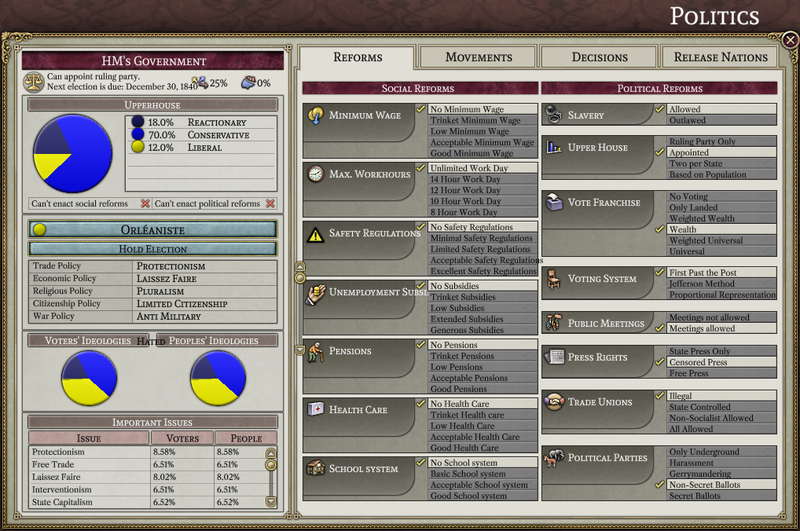
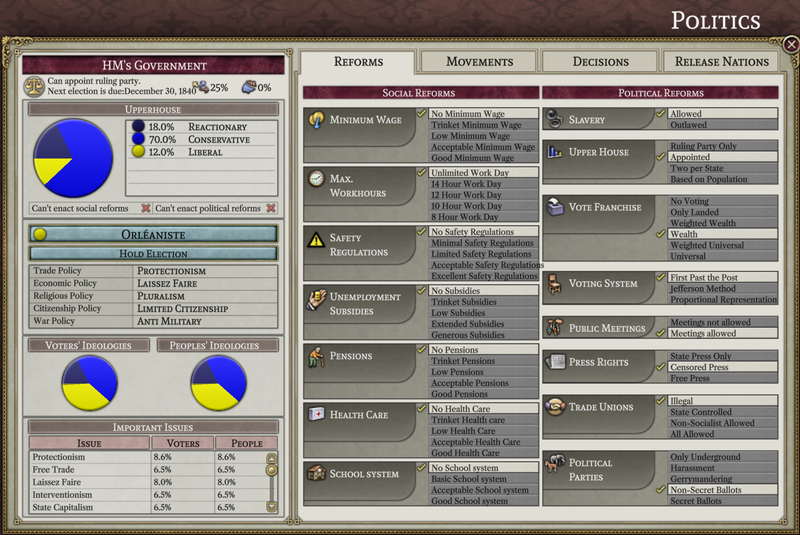
April update

diff --git a/src/gui/gui_common_elements.hpp b/src/gui/gui_common_elements.hpp
@@ -93,7 +93,7 @@ public:
 class state_admin_efficiency_text : public standard_state_instance_text {
 public:
 	std::string get_text(sys::state& state) noexcept override {
-		return text::format_percentage(province::state_admin_efficiency(state, state_id), 3);
+		return text::format_percentage(province::state_admin_efficiency(state, state_id), 1);
 	}
 };
 
@@ -103,7 +103,7 @@ public:
 		auto total_pop = state.world.state_instance_get_demographics(state_id, demographics::total);
 		auto aristocrat_key = demographics::to_key(state, state.culture_definitions.aristocrat);
 		auto aristocrat_amount = state.world.state_instance_get_demographics(state_id, aristocrat_key);
-		return text::format_percentage(aristocrat_amount / total_pop, 3);
+		return text::format_percentage(aristocrat_amount / total_pop, 1);
 	}
 };
 
@@ -317,7 +317,7 @@ public:
 class province_crime_fighting_text : public standard_province_text {
 public:
 	std::string get_text(sys::state& state) noexcept override {
-		return text::format_percentage(province::crime_fighting_efficiency(state, province_id), 3);
+		return text::format_percentage(province::crime_fighting_efficiency(state, province_id), 1);
 	}
 	tooltip_behavior has_tooltip(sys::state& state) noexcept override {
 		return tooltip_behavior::variable_tooltip;
@@ -378,7 +378,7 @@ public:
 class province_rgo_employment_percent_text : public standard_province_text {
 public:
 	std::string get_text(sys::state& state) noexcept override {
-		return text::format_percentage(state.world.province_get_rgo_employment(province_id), 3);
+		return text::format_percentage(state.world.province_get_rgo_employment(province_id), 1);
 	}
 };
 
@@ -460,14 +460,14 @@ public:
 class issue_option_popular_support : public standard_nation_issue_option_text {
 public:
 	std::string get_text(sys::state& state) noexcept override {
-		return text::format_percentage(politics::get_popular_support(state, nation_id, issue_option_id), 3);
+		return text::format_percentage(politics::get_popular_support(state, nation_id, issue_option_id), 1);
 	}
 };
 
 class issue_option_voter_support : public standard_nation_issue_option_text {
 public:
 	std::string get_text(sys::state& state) noexcept override {
-		return text::format_percentage(politics::get_voter_support(state, nation_id, issue_option_id), 3);
+		return text::format_percentage(politics::get_voter_support(state, nation_id, issue_option_id), 1);
 	}
 };
 
@@ -833,7 +833,7 @@ public:
 	std::string get_text(sys::state& state) noexcept override {
 		auto literacy = state.world.nation_get_demographics(nation_id, demographics::literacy);
 		auto total_pop = state.world.nation_get_demographics(nation_id, demographics::total);
-		return text::format_percentage(literacy / total_pop, 3);
+		return text::format_percentage(literacy / total_pop, 1);
 	}
 };
 
@@ -1205,7 +1205,7 @@ public:
 
 
 
-    class nation_ideology_percentage_text : public simple_text_element_base {
+class nation_ideology_percentage_text : public simple_text_element_base {
 protected:
 	dcon::nation_id nation_id{};
 	dcon::ideology_id ideology_id{};
@@ -1214,7 +1214,7 @@ public:
 	void on_update(sys::state& state) noexcept override {
 		if(nation_id && ideology_id) {
 			auto percentage = .01f * state.world.nation_get_upper_house(nation_id, ideology_id);
-			set_text(state, text::format_percentage(percentage, 3));
+			set_text(state, text::format_percentage(percentage, 1));
 		}
 	}
 

diff --git a/src/text/text.cpp b/src/text/text.cpp
@@ -5,6 +5,7 @@
 #include "system_state.hpp"
 #include "parsers.hpp"
 #include "simple_fs.hpp"
+#include <type_traits>
 
 namespace text {
 	text_color char_to_color(char in) {
@@ -630,22 +631,20 @@ namespace text {
 	}
 
 	std::string prettify(int64_t num) {
-		if(num < 1000) {
-			return std::to_string(num);
-		}
-		size_t i = 0;
-		while(num >= 1'000'000) {
-			num /= 1000;
-			i++;
+		char buffer[200] = { 0 };
+		double dval = double(num);
+
+		constexpr static double mag[] = { 0.0, 1'000.0, 1'000'000'000.0, 1'000'000'000'000.0, 1'000'000'000'000'000.0, 1'000'000'000'000'000'000.0, 1'000'000'000'000'000'000'000.0 };
+		constexpr static char const* sufx[] = { "%.0f", "%.2fK", "%.2fM", "%.2fB", "%.2fT", "%.2fP", "%.2fZ" };
+
+		for(size_t i = std::extent_v<decltype(mag)>; i-- > 0; ) {
+			if(std::abs(dval) > mag[i]) {
+				snprintf(buffer, 200, sufx[i], num / mag[i]);
+				return std::string(buffer);
+			}
 		}
 
-		std::string pretty_num = std::to_string(num / 10);
-		pretty_num.insert(pretty_num.size() - 2, ".");
-
-		const std::string unit_palette = "KMBTPZ";
-		pretty_num += unit_palette[std::min(unit_palette.size() - 1, i)];
-		
-		return pretty_num;
+		return std::string("#inf");
 	}
 
 	template<class T>
@@ -845,8 +844,9 @@ namespace text {
 			auto next_wb = txt.find_first_of(" \r\n\t", end_position);
 			auto next_word = txt.find_first_not_of(" \r\n\t", next_wb);
 
-			std::string_view segment = txt.substr(start_position, next_wb - start_position);
-			float extent = state.font_collection.text_extent(state, txt.data() + start_position, uint32_t(next_wb - start_position), dest.fixed_parameters.font_id);
+			auto num_chars = uint32_t(std::min(next_wb, txt.length()) - start_position);
+			std::string_view segment = txt.substr(start_position, num_chars);
+			float extent = state.font_collection.text_extent(state, txt.data() + start_position, num_chars, dest.fixed_parameters.font_id);
 
 			if(first_in_line && int32_t(box.x_position) == box.x_offset && box.x_position + extent >= dest.fixed_parameters.right) {
 				// the current word is too long for the text box, just let it overflow

diff --git a/src/nations/nations.hpp b/src/nations/nations.hpp
@@ -251,7 +251,6 @@ bool has_reform_available(sys::state& state, dcon::nation_id n);
 bool has_decision_available(sys::state& state, dcon::nation_id n);
 int32_t max_national_focuses(sys::state& state, dcon::nation_id n);
 int32_t national_focuses_in_use(sys::state& state, dcon::nation_id n);
-bool is_great_power(dcon::nation_fat_id);
 bool can_expand_colony(sys::state& state, dcon::nation_id n);
 bool is_losing_colonial_race(sys::state& state, dcon::nation_id n);
 bool sphereing_progress_is_possible(sys::state& state, dcon::nation_id n); // can increase opinion or add to sphere

diff --git a/src/nations/nations.cpp b/src/nations/nations.cpp
@@ -509,14 +509,6 @@ void update_colonial_points(sys::state& state) {
 	});
 }
 
-bool is_great_power(dcon::nation_fat_id nation) {
-	bool is_great_power = false;
-	nation.for_each_gp_relationship_as_great_power([&](dcon::gp_relationship_id rel_id) {
-		if(!is_great_power) is_great_power = true;
-	});
-	return is_great_power;
-}
-
 bool can_expand_colony(sys::state& state, dcon::nation_id n) {
 	for(auto cols : state.world.nation_get_colonization_as_colonizer(n)) {
 		auto state_colonization = state.world.state_definition_get_colonization(cols.get_state());

diff --git a/src/map/modes/sphere.hpp b/src/map/modes/sphere.hpp
@@ -72,7 +72,7 @@ std::vector<uint32_t> get_selected_sphere_color(sys::state& state) {
 
 	// Get sphere master if exists
 	auto master = selected_nation.get_in_sphere_of();
-	if(!bool(master) && nations::is_great_power(selected_nation)) {
+	if(!bool(master) && nations::is_great_power(state, selected_nation)) {
 		master = selected_nation;
 	}
 

diff --git a/docs/Devlogs/april/april.md b/docs/Devlogs/april/april.md
@@ -1,17 +1,18 @@
 # Progress as of April 2023
 
-As April begins, we are still here, plugging away.
+Hello Alices! As April begins, we are still here, plugging away.
 
 ## New team members
 
-In March we added four new programmers to the team. In order of appearance, they are Bruno who has added the diplomatic map mode:
--- IMAGE GOES HERE --
+In March we added (Schombert kidnapped) four new programmers to the team. In order of appearance, they are Bruno who has added the diplomatic map mode:
+![Diplomatic map mode](Diplomatic_Map_Mode.png)
 Cap, who has added the infrastructure, civilization level, recruitment, supply, relations, rank, and revolt risk map modes (and maybe some others I am forgetting at this point)
--- IMAGE OR TWO GOES HERE --
+![Civilization level map mode](Civilization_Level_Map_Mode.png)
+![Rank map mode](Rank_Map_Mode.png)
 Nick, who has added some improvements to the console as well as making a start on the population window
--- IMAGE OR TWO GOES HERE --
+![Population window](Population_Window_Start.png)
 and Landau who has populated the contents of the decisions tab
--- IMAGE GOES HERE --
+![Decision tab](Populated_Decision_Tab_Landau.png)
 
 New programmers, artists, or people with other talents to contribute are always welcome to join the team.
 
@@ -19,25 +20,27 @@ New programmers, artists, or people with other talents to contribute are always 
 
 For this month we asked Diana, the project coordinator and overall second in command "what are you interested in adding to Project Alice?"
 
-> To be honest, as of now I have little programming abilities. I wanted to help, but the only things I could do were advertising (the possibilities for which kinda shrunk) and managing people (but people here turned out to be quite good at managing themselves). I might try to fiddle more with the code later though. Once the project is closer to release, I want to bug mod creators to try to convince them to make mods compatible with it, and possibly help with that myself if modding compatibility is as preserved as I hope, as I can actually make mods for PDX games--I just avoid doing that due to lack of willpower. Apart from that, the project is kinda important to me; it's something I wished would happen for a long long time, especially because Victoria 2 is too slow for me.
+> tbh, as of now I have little programming abilities. I wanted to help, but the only things I could do were advertising (the possibilities for which kinda shrunk) and managing people (but people here turned out to be quite good at managing themselves). I might try to fiddle more with the code later though. Once the project is closer to release, I want to bug mod creators to try to convince them to make mods compatible with it, and possibly help with that myself if modding compatibility is as preserved as I hope, as I can actually make mods for PDX games--I just avoid doing that due to lack of willpower. Apart from that, the project is kinda important to me; it's something I wished would happen for a long long time, especially because Victoria 2 is too slow for me.
 
 ## UI progress
 
 The slow process of implementing the user interface is still underway. This month we made significant progress on the province window, which now displays information such as national scores, RGO employment, and alliances, among other things. The politics windows has also seen significant improvements. Most of the information in the left-hand column is now filled in, along with the contents of the issues, reforms (for uncivilized nations), and decisions tabs. A first step towards making the population window work (mentioned above) has also been made.
 
--- IMAGES OF PROVINCE WINDOW, FOCUS WINDOW, TOP BAR, POLITICS WINDOW WITH ISSUES --
+![Province windows](Province_and_Focus_Windows.png)
+![Top bar](Top_Bar.png)
+![Politics window](Political_Reforms_Window.png)
 
 ## Map progress
 
 At this point 15 of the 22 map modes have been added. Additionally, the borders between provinces have gotten a facelift. Now borders between nations are thicker than those between states, which are in turn thicker than those between provinces. And as you zoom out, the less important borders will disappear, leaving you with only the national borders when the map is most zoomed out.
 
--- IMAGE OR MAP MODE NOT ALREADY SHOWN, AND THE SAME AREA OF THE MAP AT DIFFERENT ZOOM LEVELS --
+![Zoom levels](Zoom_Levels.png)
 
 ## Classic fonts
 
 Last month we mentioned that MasterChef was working on bringing the classic fonts back as an option. This month we are happy to announce that the work has been completed, and for the ultra purists we have added the option to render the text using the original bitmaps.
 
--- NEW-CLASSIC COMPARISON IMAGE HERE --
+![Font comparison](Fonts_detail.png)
 
 People with high-resolution monitors will probably want to stick with the new fonts; bitmap fonts don't look great when they are scaled up.
 
@@ -45,4 +48,4 @@ People with high-resolution monitors will probably want to stick with the new fo
 
 In terms of making the game actually *run*, an important first step was made this month by collecting a--mostly complete--description of the rules of the game. Not only is this description useful as a target to program towards, it is probably independently useful for players of Victoria 2 who simply want to know how the game actually works. Please feel free to share any corrections or fill in any omissions.
 
--- LINK HERE --
+[Rules document](https://github.com/schombert/Project-Alice/blob/main/docs/rules.md)
